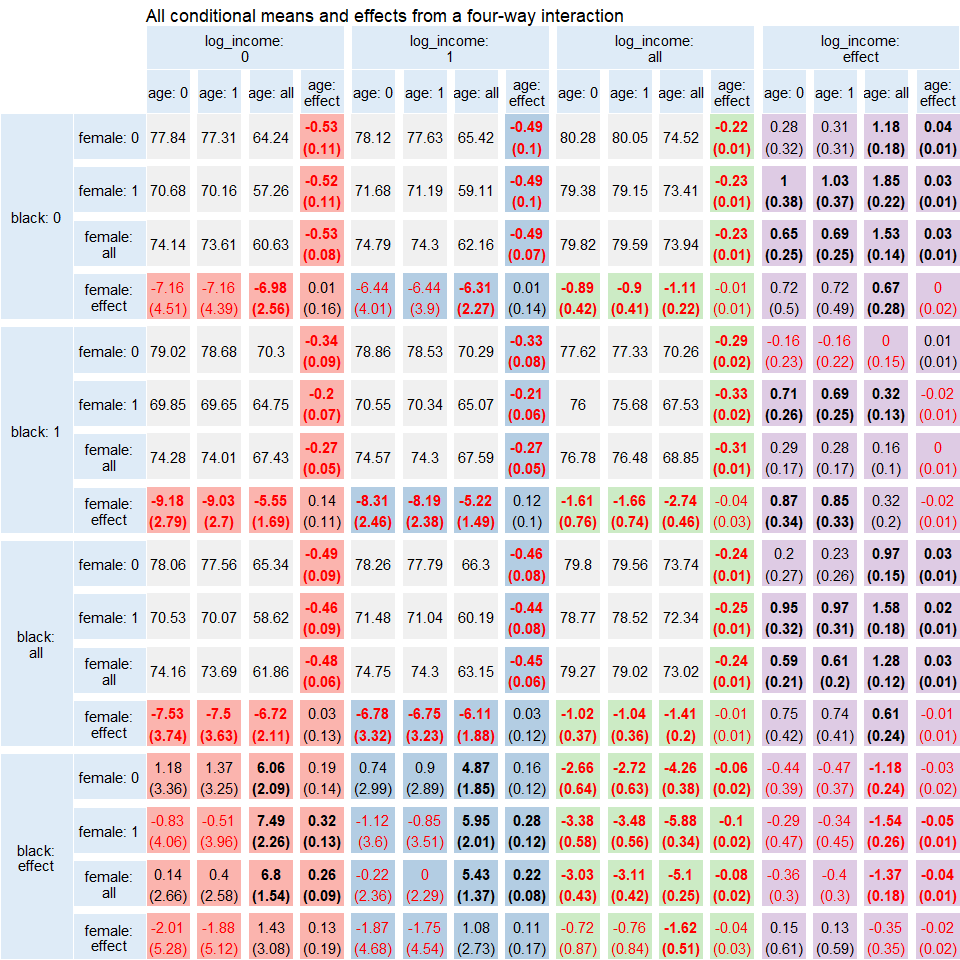
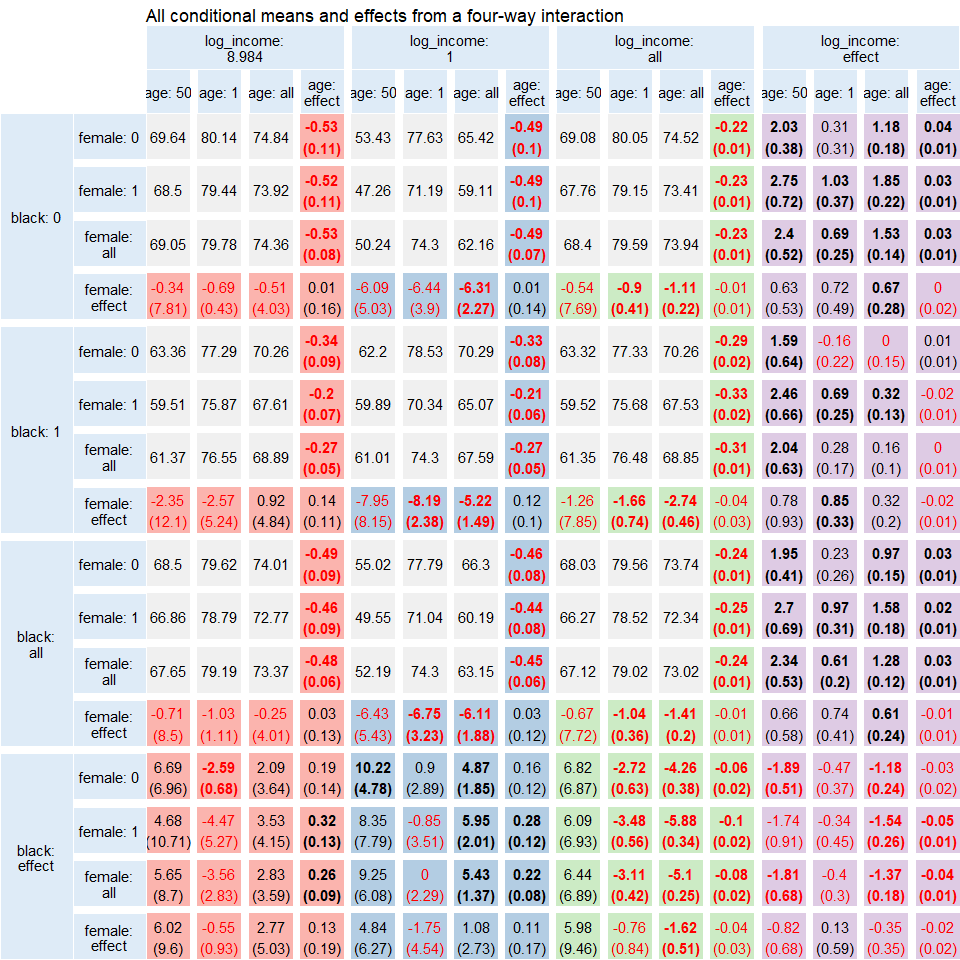
readme again

diff --git a/README.md b/README.md
@@ -162,6 +162,7 @@ returns mean conditions, we can also specify specific values for our
 variables to take.
 
 ``` r
+
 median_inc <- round(median(RandHIE$linc), 3)
 
 dat <- int_conditions(mod, RandHIE,
@@ -176,6 +177,83 @@ dat |>
   head() |>
   kable(digits = 3)
 ```
+
+<table>
+ <thead>
+  <tr>
+   <th style="text-align:left;"> female </th>
+   <th style="text-align:left;"> black </th>
+   <th style="text-align:left;"> log_income </th>
+   <th style="text-align:left;"> age </th>
+   <th style="text-align:right;"> estimate </th>
+   <th style="text-align:right;"> std.error </th>
+   <th style="text-align:right;"> p.value </th>
+   <th style="text-align:left;"> value </th>
+  </tr>
+ </thead>
+<tbody>
+  <tr>
+   <td style="text-align:left;"> effect </td>
+   <td style="text-align:left;"> 0 </td>
+   <td style="text-align:left;"> 8.984 </td>
+   <td style="text-align:left;"> 50 </td>
+   <td style="text-align:right;"> -0.340 </td>
+   <td style="text-align:right;"> 7.809 </td>
+   <td style="text-align:right;"> 0.965 </td>
+   <td style="text-align:left;"> Causal effect </td>
+  </tr>
+  <tr>
+   <td style="text-align:left;"> effect </td>
+   <td style="text-align:left;"> all </td>
+   <td style="text-align:left;"> 8.984 </td>
+   <td style="text-align:left;"> 50 </td>
+   <td style="text-align:right;"> -0.705 </td>
+   <td style="text-align:right;"> 8.505 </td>
+   <td style="text-align:right;"> 0.934 </td>
+   <td style="text-align:left;"> Causal effect </td>
+  </tr>
+  <tr>
+   <td style="text-align:left;"> effect </td>
+   <td style="text-align:left;"> 1 </td>
+   <td style="text-align:left;"> 8.984 </td>
+   <td style="text-align:left;"> 50 </td>
+   <td style="text-align:right;"> -2.353 </td>
+   <td style="text-align:right;"> 12.096 </td>
+   <td style="text-align:right;"> 0.846 </td>
+   <td style="text-align:left;"> Causal effect </td>
+  </tr>
+  <tr>
+   <td style="text-align:left;"> effect </td>
+   <td style="text-align:left;"> 0 </td>
+   <td style="text-align:left;"> all </td>
+   <td style="text-align:left;"> 50 </td>
+   <td style="text-align:right;"> -0.538 </td>
+   <td style="text-align:right;"> 7.694 </td>
+   <td style="text-align:right;"> 0.944 </td>
+   <td style="text-align:left;"> Causal effect </td>
+  </tr>
+  <tr>
+   <td style="text-align:left;"> effect </td>
+   <td style="text-align:left;"> 0 </td>
+   <td style="text-align:left;"> 1 </td>
+   <td style="text-align:left;"> 50 </td>
+   <td style="text-align:right;"> -6.087 </td>
+   <td style="text-align:right;"> 5.029 </td>
+   <td style="text-align:right;"> 0.226 </td>
+   <td style="text-align:left;"> Causal effect </td>
+  </tr>
+  <tr>
+   <td style="text-align:left;"> effect </td>
+   <td style="text-align:left;"> 0 </td>
+   <td style="text-align:left;"> 8.984 </td>
+   <td style="text-align:left;"> all </td>
+   <td style="text-align:right;"> -0.512 </td>
+   <td style="text-align:right;"> 4.026 </td>
+   <td style="text-align:right;"> 0.899 </td>
+   <td style="text-align:left;"> Causal effect </td>
+  </tr>
+</tbody>
+</table>
 
 We can also visualize these effects using a graph. `int_graph` returns a
 tabular ggplot object that can be further manipulated. Values in bold
